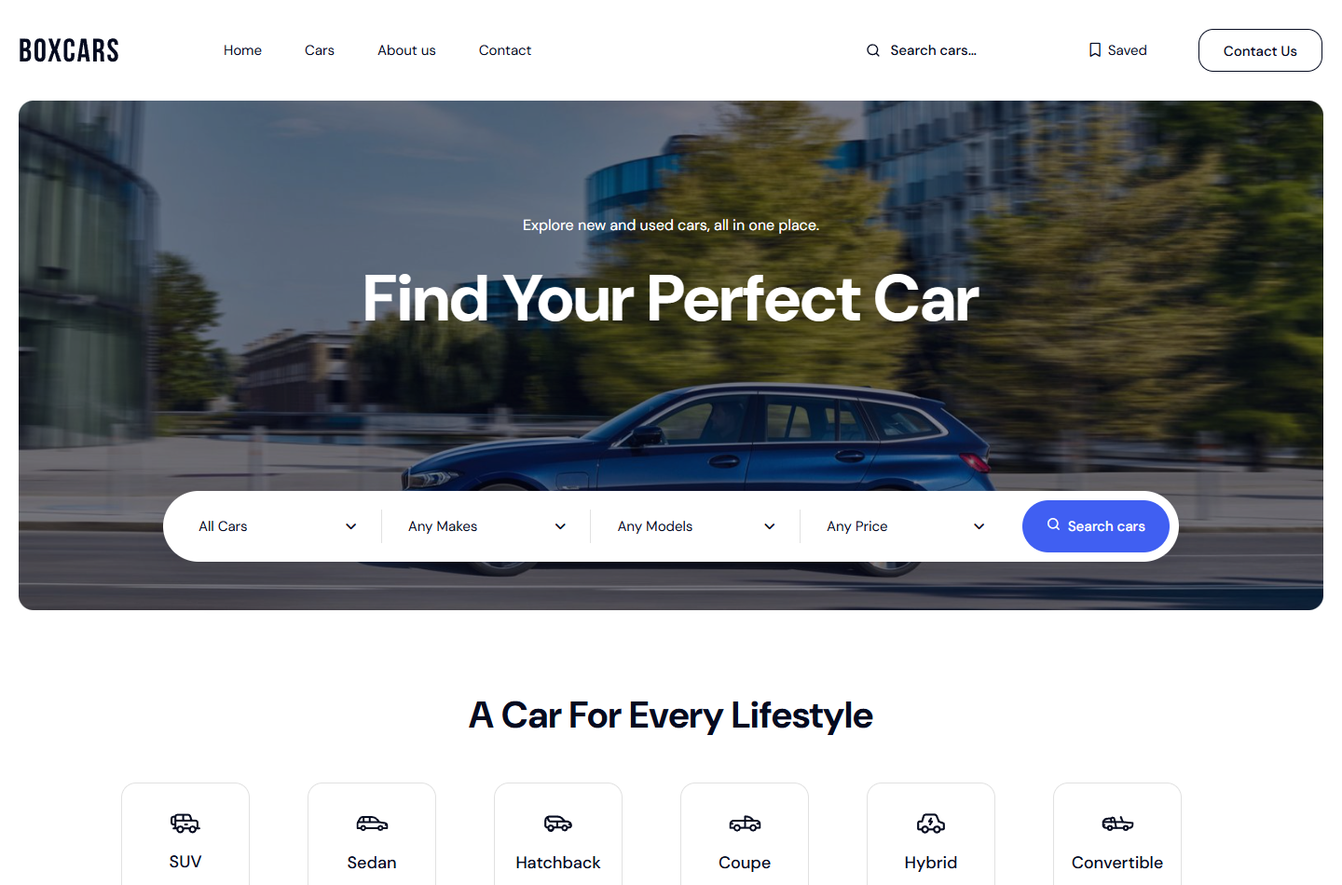
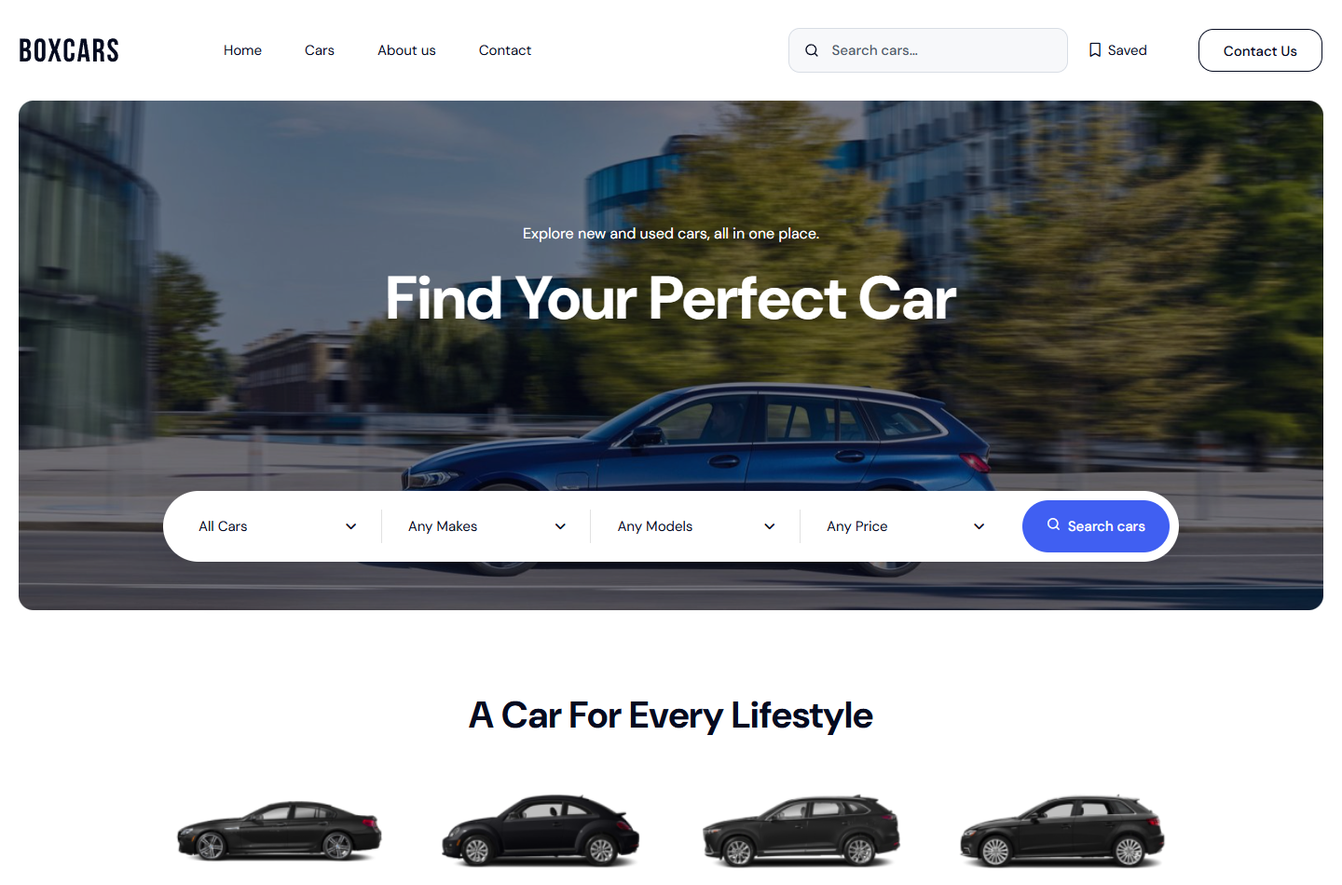
fix(boxcar): restore source styling and photographic categories

diff --git a/templates/boxcar-updated/src/reference/CuratedHome.svelte b/templates/boxcar-updated/src/reference/CuratedHome.svelte
@@ -163,136 +163,58 @@ import CuratedStock from './CuratedStock.svelte';
                         </div></div>
         </div>
     </section>
-<section class="boxcar-brand-section-six curated-types">
+<section class="vehicles-section-two curated-types">
         <div class="boxcar-container">
-            <div class="boxcar-title wow fadeInUp">
+            <div class="boxcar-title text-center">
                 <h2>A Car For Every Lifestyle</h2>
-                
             </div>
-            <div class="right-box">
+            <div class="row">
                 
-                <div class="cars-block-six home-8">
-                    <div class="inner-box wow fadeInUp">
+                <div class="Vehicle-block col-sm-6 col-lg-3 col-md-3">
+                    <a class="inner-box" href="/inventory/?body=Sedan" aria-label="Browse Sedan cars">
                         <div class="image-box">
-                            <svg width="32" height="32" viewBox="0 0 32 32" fill="none" xmlns="http://www.w3.org/2000/svg">
-                                <g clip-path="url(#clip0_130_4383-curated-3)">
-                                <path d="M30.9565 20.1739H29.913V14.9565C29.913 13.2304 28.5087 11.8261 26.7826 11.8261H23.3608L21.9874 7.70562C21.5605 6.42537 20.367 5.56519 19.0175 5.56519C18.855 5.56519 7.57394 5.56519 7.30431 5.56519C5.94394 5.56519 4.78412 6.43762 4.35337 7.65212H3.13044C1.40431 7.65212 0 9.05644 0 10.7826V14.9565C0 16.6826 1.40431 18.0869 3.13044 18.0869H4.17394V20.1739H3.13044C2.55419 20.1739 2.08694 20.6411 2.08694 21.2174C2.08694 21.7937 2.55413 22.2609 3.13044 22.2609C4.10769 22.2609 5.28038 22.2609 6.26088 22.2609C6.26088 24.5624 8.13331 26.4348 10.4348 26.4348C12.7363 26.4348 14.6088 24.5624 14.6088 22.2609H19.4783C19.4783 24.5624 21.3507 26.4348 23.6523 26.4348C25.9538 26.4348 27.8262 24.5624 27.8262 22.2609C28.807 22.2609 29.9801 22.2609 30.9566 22.2609C31.5329 22.2609 32.0001 21.7937 32.0001 21.2174C32.0001 20.6411 31.5328 20.1739 30.9565 20.1739ZM4.17394 15.9999H3.13044C2.55506 15.9999 2.08694 15.5318 2.08694 14.9564V10.7825C2.08694 10.2071 2.55506 9.739 3.13044 9.739H4.17394C4.17394 10.4039 4.17394 15.3552 4.17394 15.9999ZM14.6087 7.65212H16.3478H19.0175C19.4674 7.65212 19.8652 7.93887 20.0074 8.36556L21.1609 11.826H14.6087V7.65212ZM6.26088 8.69556C6.26088 8.12019 6.729 7.65206 7.30438 7.65206H12.5218V11.826H6.26088V8.69556ZM10.4348 24.3477C9.28406 24.3477 8.34787 23.4116 8.34787 22.2608C8.34787 21.1101 9.28406 20.1739 10.4348 20.1739C11.5856 20.1739 12.5218 21.1101 12.5218 22.2608C12.5218 23.4116 11.5856 24.3477 10.4348 24.3477ZM23.6522 24.3477C22.5014 24.3477 21.5653 23.4116 21.5653 22.2608C21.5653 21.1101 22.5014 20.1739 23.6522 20.1739C24.8029 20.1739 25.7391 21.1101 25.7391 22.2608C25.7391 23.4116 24.8029 24.3477 23.6522 24.3477ZM27.8261 20.1739H27.2646C26.5417 18.9276 25.1937 18.0869 23.6522 18.0869C22.1107 18.0869 20.7627 18.9276 20.0398 20.1739H14.0472C13.3243 18.9276 11.9763 18.0869 10.4348 18.0869C8.89331 18.0869 7.54531 18.9276 6.82244 20.1739H6.26094V17.0434V13.913C7.96256 13.913 25.6653 13.913 26.7827 13.913C27.3581 13.913 27.8262 14.3811 27.8262 14.9565V20.1739H27.8261Z" fill="#050B20"></path>
-                                <path d="M17.7388 16H15.6519C15.0756 16 14.6084 16.4672 14.6084 17.0435C14.6084 17.6198 15.0756 18.087 15.6519 18.087H17.7388C18.3151 18.087 18.7823 17.6198 18.7823 17.0435C18.7823 16.4672 18.3151 16 17.7388 16Z" fill="#050B20"></path>
-                                </g>
-                                <defs>
-                                <clipPath id="clip0_130_4383-curated-3">
-                                <rect width="32" height="32" fill="white"></rect>
-                                </clipPath>
-                                </defs>
-                            </svg>
-                                
+                            <figure class="image"><img src="/media/resource/vehicles2-1.png" alt="" width="200" height="150"></figure>
                         </div>
                         <div class="content-box">
-                            <h6 class="title"><a href="/inventory/?body=SUV" aria-label="Browse SUV cars">SUV</a></h6>
+                            <h6 class="title">Sedan</h6>
                         </div>
-                    </div>
+                    </a>
                 </div>
                 
-                <div class="cars-block-six home-8">
-                    <div class="inner-box wow fadeInUp" data-wow-delay="100ms">
+                <div class="Vehicle-block col-sm-6 col-lg-3 col-md-3">
+                    <a class="inner-box" href="/inventory/?body=Coupe" aria-label="Browse Coupe cars">
                         <div class="image-box">
-                            <svg width="35" height="34" viewBox="0 0 35 34" fill="none" xmlns="http://www.w3.org/2000/svg">
-                                <g clip-path="url(#clip0_130_4394-curated-4)">
-                                <path d="M31.259 15.5873L25.3898 14.6086C25.0466 14.0512 24.3644 13.0429 23.3725 12.0327C21.3927 10.0164 19.1133 8.95068 16.7806 8.95068H7.2225C5.66993 8.95068 4.23044 9.79012 3.46577 11.1414L0.831898 15.7962C0.827648 15.8037 0.824461 15.8115 0.82041 15.8191C0.616676 16.1837 0.5 16.6033 0.5 17.0499V21.9548C0.5 22.5049 0.945984 22.9508 1.49609 22.9508H4.68632C5.15455 24.176 6.348 25.0494 7.74339 25.0494C9.13879 25.0494 10.3322 24.176 10.8005 22.9508H23.172C23.6402 24.176 24.8336 25.0494 26.229 25.0494C27.6244 25.0494 28.8178 24.176 29.286 22.9508H33.5039C34.054 22.9508 34.5 22.5049 34.5 21.9548V19.3178C34.5 17.4492 33.1077 15.8482 31.259 15.5873ZM22.8976 14.5182H15.722V10.9429H16.7806C19.604 10.9429 21.7363 13.0302 22.8976 14.5182ZM9.07371 10.9429H13.7299V14.5182H9.07371V10.9429ZM5.19964 12.1225C5.58811 11.436 6.30012 10.9953 7.08152 10.9477V14.5182H3.84402L5.19964 12.1225ZM7.74339 23.0572C7.03929 23.0572 6.46647 22.494 6.46647 21.8016C6.46647 21.1093 7.03929 20.546 7.74339 20.546C8.4475 20.546 9.02032 21.1093 9.02032 21.8016C9.02032 22.494 8.4475 23.0572 7.74339 23.0572ZM26.229 23.0572C25.5248 23.0572 24.952 22.494 24.952 21.8016C24.952 21.1093 25.5249 20.546 26.229 20.546C26.9331 20.546 27.5059 21.1093 27.5059 21.8016C27.5059 22.494 26.9331 23.0572 26.229 23.0572ZM29.3857 20.9586C29.0111 19.5753 27.7381 18.5538 26.229 18.5538C24.7198 18.5538 23.4469 19.5753 23.0721 20.9586H10.9001C10.5255 19.5753 9.25254 18.5538 7.74339 18.5538C6.23425 18.5538 4.9613 19.5753 4.58657 20.9586H2.49219V17.0499C2.49219 16.7524 2.73417 16.5104 3.03167 16.5104H24.683L30.9445 17.5546C30.9541 17.5562 30.9637 17.5577 30.9734 17.559C31.1428 17.5822 31.304 17.6295 31.4541 17.6967C31.0374 17.8159 30.732 18.1988 30.732 18.6538C30.732 19.2039 31.178 19.6499 31.7281 19.6499H32.5078V20.9587H29.3857V20.9586Z" fill="#050B20"></path>
-                                </g>
-                                <defs>
-                                <clipPath id="clip0_130_4394-curated-4">
-                                <rect width="34" height="34" fill="white" transform="translate(0.5)"></rect>
-                                </clipPath>
-                                </defs>
-                                </svg>
-                                
+                            <figure class="image"><img src="/media/resource/vehicles2-2.png" alt="" width="200" height="150"></figure>
                         </div>
                         <div class="content-box">
-                            <h6 class="title"><a href="/inventory/?body=Sedan" aria-label="Browse Sedan cars">Sedan</a></h6>
+                            <h6 class="title">Coupe</h6>
                         </div>
-                    </div>
+                    </a>
                 </div>
                 
-                <div class="cars-block-six home-8">
-                    <div class="inner-box wow fadeInUp" data-wow-delay="200ms">
+                <div class="Vehicle-block col-sm-6 col-lg-3 col-md-3">
+                    <a class="inner-box" href="/inventory/?body=SUV" aria-label="Browse SUV cars">
                         <div class="image-box">
-                            <svg width="34" height="34" viewBox="0 0 34 34" fill="none" xmlns="http://www.w3.org/2000/svg">
-                                <path d="M26.5625 13.8124H25.3194C25.1795 13.8133 25.0409 13.7865 24.9115 13.7336C24.782 13.6807 24.6643 13.6028 24.565 13.5043L21.7387 10.6781C21.0418 9.9811 20.2132 9.42962 19.3012 9.0557C18.3891 8.68177 17.4119 8.49286 16.4263 8.49995H7.4375C6.02854 8.49995 4.67728 9.05966 3.681 10.0559C2.68471 11.0522 2.125 12.4035 2.125 13.8124V19.1249C2.125 19.9703 2.46083 20.7811 3.0586 21.3789C3.65637 21.9766 4.46712 22.3124 5.3125 22.3124C5.3125 23.2987 5.7043 24.2446 6.4017 24.942C7.0991 25.6394 8.04498 26.0312 9.03125 26.0312C10.0175 26.0312 10.9634 25.6394 11.6608 24.942C12.3582 24.2446 12.75 23.2987 12.75 22.3124H20.2938C20.4112 23.2014 20.8478 24.0174 21.5221 24.6085C22.1965 25.1996 23.0626 25.5255 23.9594 25.5255C24.8561 25.5255 25.7223 25.1996 26.3966 24.6085C27.071 24.0174 27.5075 23.2014 27.625 22.3124H28.6875C29.5329 22.3124 30.3436 21.9766 30.9414 21.3789C31.5392 20.7811 31.875 19.9703 31.875 19.1249C31.875 17.716 31.3153 16.3647 30.319 15.3684C29.3227 14.3722 27.9715 13.8124 26.5625 13.8124ZM16.4794 10.6249C17.1775 10.6237 17.869 10.7601 18.5144 11.0262C19.1598 11.2924 19.7464 11.6832 20.2406 12.1762L21.8769 13.8124H8.755C8.55699 13.8138 8.36253 13.7598 8.19357 13.6566C8.0246 13.5533 7.88785 13.4049 7.79875 13.2281L6.56625 10.7631C6.84804 10.6734 7.14178 10.6268 7.4375 10.6249H16.4794ZM4.25 19.1249V13.8124C4.25058 13.1672 4.44694 12.5374 4.81313 12.0062L5.87563 14.1312C6.13626 14.6733 6.54495 15.1305 7.05446 15.4501C7.56398 15.7698 8.15353 15.9387 8.755 15.9374H14.875V20.1874H12.3781C12.0797 19.5519 11.6064 19.0144 11.0137 18.638C10.421 18.2615 9.7334 18.0616 9.03125 18.0616C8.3291 18.0616 7.64146 18.2615 7.04876 18.638C6.45607 19.0144 5.98282 19.5519 5.68437 20.1874H5.3125C5.03071 20.1874 4.76046 20.0755 4.5612 19.8763C4.36194 19.677 4.25 19.4067 4.25 19.1249ZM9.03125 23.3749C8.71604 23.3749 8.4079 23.2815 8.14581 23.1064C7.88372 22.9312 7.67944 22.6823 7.55882 22.3911C7.43819 22.0999 7.40663 21.7794 7.46812 21.4703C7.52962 21.1611 7.68141 20.8771 7.9043 20.6542C8.12719 20.4314 8.41117 20.2796 8.72032 20.2181C9.02948 20.1566 9.34993 20.1881 9.64115 20.3088C9.93237 20.4294 10.1813 20.6337 10.3564 20.8958C10.5315 21.1578 10.625 21.466 10.625 21.7812C10.625 22.2039 10.4571 22.6093 10.1582 22.9081C9.85932 23.207 9.45394 23.3749 9.03125 23.3749ZM23.9062 23.3749C23.591 23.3749 23.2829 23.2815 23.0208 23.1064C22.7587 22.9312 22.5544 22.6823 22.4338 22.3911C22.3132 22.0999 22.2816 21.7794 22.3431 21.4703C22.4046 21.1611 22.5564 20.8771 22.7793 20.6542C23.0022 20.4314 23.2862 20.2796 23.5953 20.2181C23.9045 20.1566 24.2249 20.1881 24.5162 20.3088C24.8074 20.4294 25.0563 20.6337 25.2314 20.8958C25.4065 21.1578 25.5 21.466 25.5 21.7812C25.5 22.2039 25.3321 22.6093 25.0332 22.9081C24.7343 23.207 24.3289 23.3749 23.9062 23.3749ZM28.6875 20.1874H27.2531C26.9547 19.5519 26.4814 19.0144 25.8887 18.638C25.296 18.2615 24.6084 18.0616 23.9062 18.0616C23.2041 18.0616 22.5165 18.2615 21.9238 18.638C21.3311 19.0144 20.8578 19.5519 20.5594 20.1874H17V15.9374H26.5625C27.0081 15.9398 27.4482 16.0356 27.8545 16.2186C28.2608 16.4017 28.6242 16.6678 28.9212 16.9999H28.6875C28.4057 16.9999 28.1355 17.1119 27.9362 17.3111C27.7369 17.5104 27.625 17.7807 27.625 18.0624C27.625 18.3442 27.7369 18.6145 27.9362 18.8138C28.1355 19.013 28.4057 19.1249 28.6875 19.1249H29.75C29.75 19.4067 29.6381 19.677 29.4388 19.8763C29.2395 20.0755 28.9693 20.1874 28.6875 20.1874Z" fill="#050B20"></path>
-                            </svg>
-                                
+                            <figure class="image"><img src="/media/resource/vehicles2-3.png" alt="" width="200" height="150"></figure>
                         </div>
                         <div class="content-box">
-                            <h6 class="title"><a href="/inventory/?body=Hatchback" aria-label="Browse Hatchback cars">Hatchback</a></h6>
+                            <h6 class="title">SUV</h6>
                         </div>
-                    </div>
-                </div>
-                
-                <div class="cars-block-six home-8">
-                    <div class="inner-box wow fadeInUp" data-wow-delay="300ms">
-                        <div class="image-box">
-                            <svg width="35" height="34" viewBox="0 0 35 34" fill="none" xmlns="http://www.w3.org/2000/svg">
-                                <g clip-path="url(#clip0_130_4407-curated-6)">
-                                <path d="M29.6539 12.9591H26.9432C26.0374 11.6291 24.8322 10.5173 23.4281 9.72437C21.8558 8.83644 20.0704 8.36719 18.265 8.36719H17.5C16.9451 8.36719 16.4953 8.81699 16.4953 9.37184V12.9591H5.3461C2.89815 12.9591 0.869644 14.784 0.546173 17.1445C0.542542 17.1673 0.539429 17.1901 0.537354 17.2135C0.513748 17.4078 0.5 17.6049 0.5 17.8054V21.6469C0.5 22.2017 0.949799 22.6515 1.50465 22.6515H5.01978C5.46672 24.3781 7.0379 25.6567 8.90221 25.6567C10.7665 25.6567 12.3377 24.3781 12.7846 22.6515H22.2154C22.6626 24.3781 24.2335 25.6567 26.0978 25.6567C27.9621 25.6567 29.533 24.3781 29.9802 22.6515H33.4953C34.0502 22.6515 34.5 22.2017 34.5 21.6469V17.8054C34.5 15.1331 32.326 12.9591 29.6539 12.9591ZM18.5047 10.3801C20.7251 10.4437 22.8312 11.3907 24.3588 12.9591H18.5047V10.3801ZM2.50931 18.304H4.06104C4.61589 18.304 5.06569 17.8542 5.06569 17.2993C5.06569 16.7445 4.61589 16.2947 4.06104 16.2947H2.94691C3.44989 15.4986 4.33704 14.9686 5.3461 14.9686H16.4953V20.6422H12.7846C12.3374 18.9157 10.7665 17.6368 8.90221 17.6368C7.0379 17.6368 5.46698 18.9157 5.01978 20.6422H2.50931V18.304ZM10.9027 21.6469C10.9027 22.7501 10.0054 23.6474 8.90221 23.6474C7.79898 23.6474 6.90172 22.7501 6.90172 21.6469C6.90172 20.5437 7.79898 19.6464 8.90221 19.6464C10.0054 19.6464 10.9027 20.5437 10.9027 21.6469ZM28.0983 21.6469C28.0983 22.7501 27.201 23.6474 26.0978 23.6474C24.9946 23.6474 24.0973 22.7501 24.0973 21.6469C24.0973 20.5437 24.9946 19.6464 26.0978 19.6464C27.201 19.6464 28.0983 20.5437 28.0983 21.6469ZM29.9802 20.6422C29.5333 18.9157 27.9621 17.6368 26.0978 17.6368C24.2335 17.6368 22.6623 18.9157 22.2154 20.6422H18.5047V14.9686H29.6539C30.6451 14.9686 31.519 15.4802 32.0264 16.2527H30.4715C29.9167 16.2527 29.4669 16.7025 29.4669 17.2573C29.4669 17.8122 29.9167 18.2622 30.4715 18.2622H32.4907V20.6422H29.9802Z" fill="#050B20"></path>
-                                </g>
-                                <defs>
-                                <clipPath id="clip0_130_4407-curated-6">
-                                <rect width="34" height="34" fill="white" transform="translate(0.5)"></rect>
-                                </clipPath>
-                                </defs>
-                                </svg>
-                                
-                        </div>
-                        <div class="content-box">
-                            <h6 class="title"><a href="/inventory/?body=Coupe" aria-label="Browse Coupe cars">Coupe</a></h6>
-                        </div>
-                    </div>
-                </div>
-                
-                <div class="cars-block-six home-8">
-                    <div class="inner-box wow fadeInUp" data-wow-delay="400ms">
-                        <div class="image-box">
-                            <svg width="34" height="34" viewBox="0 0 34 34" fill="none" xmlns="http://www.w3.org/2000/svg">
-                                <path d="M30.5394 15.7463L26.3033 14.0526L23.8414 8.30769C23.3378 7.13362 22.1882 6.375 20.9111 6.375H11.1658C9.75056 6.375 8.48938 7.32594 8.1005 8.687L6.63637 13.8125H4.25C3.07806 13.8125 2.125 14.7656 2.125 15.9375V22.3125C2.125 23.4844 3.07806 24.4375 4.25 24.4375H6.52588C7.00081 26.265 8.65088 27.625 10.625 27.625C12.5991 27.625 14.2492 26.265 14.7241 24.4375H19.2759C19.7508 26.265 21.4009 27.625 23.375 27.625C25.3491 27.625 26.9992 26.265 27.4741 24.4375H29.75C30.9219 24.4375 31.875 23.4844 31.875 22.3125V17.7193C31.875 16.8449 31.3512 16.0703 30.5394 15.7463ZM10.625 25.5C9.45306 25.5 8.5 24.5469 8.5 23.375C8.5 22.2031 9.45306 21.25 10.625 21.25C11.7969 21.25 12.75 22.2031 12.75 23.375C12.75 24.5469 11.7969 25.5 10.625 25.5ZM23.375 25.5C22.2031 25.5 21.25 24.5469 21.25 23.375C21.25 22.2031 22.2031 21.25 23.375 21.25C24.5469 21.25 25.5 22.2031 25.5 23.375C25.5 24.5469 24.5469 25.5 23.375 25.5ZM29.75 22.3125H27.4741C26.9992 20.485 25.3491 19.125 23.375 19.125C21.4009 19.125 19.7508 20.485 19.2759 22.3125H14.7241C14.2492 20.485 12.5991 19.125 10.625 19.125C8.65088 19.125 7.00081 20.485 6.52588 22.3125H4.25V15.9375H7.4375C7.91138 15.9375 8.32894 15.623 8.45856 15.1672L10.1426 9.27137C10.2733 8.81662 10.693 8.5 11.1658 8.5H20.9111C21.3361 8.5 21.7196 8.75287 21.8875 9.14387L24.5225 15.2936C24.633 15.5529 24.8423 15.7569 25.1037 15.8621L29.75 17.7193V22.3125Z" fill="#050B20"></path>
-                                <path d="M15.3481 18.9465C14.8604 18.6214 14.7287 17.9616 15.0538 17.4728L16.077 15.9375H14.8753C14.4833 15.9375 14.1231 15.7218 13.9382 15.3765C13.7533 15.0312 13.7735 14.6115 13.9913 14.2864L16.1163 11.0989C16.4414 10.6102 17.1013 10.4784 17.59 10.8046C18.0777 11.1297 18.2094 11.7895 17.8843 12.2783L16.8611 13.8125H18.0628C18.4549 13.8125 18.8151 14.0282 18.9999 14.3735C19.1848 14.7188 19.1646 15.1385 18.9468 15.4637L16.8218 18.6512C16.4956 19.141 15.8348 19.2717 15.3481 18.9465Z" fill="#050B20"></path>
-                                </svg>
-                                
-                        </div>
-                        <div class="content-box">
-                            <h6 class="title"><a href="/inventory/?fuel=Hybrid" aria-label="Browse Hybrid cars">Hybrid</a></h6>
-                        </div>
-                    </div>
-                </div>
-                
-                <div class="cars-block-six home-8">
-                    <div class="inner-box wow fadeInUp" data-wow-delay="500ms">
-                        <div class="image-box">
-                            <svg width="35" height="34" viewBox="0 0 35 34" fill="none" xmlns="http://www.w3.org/2000/svg">
-                                <mask id="mask0_130_4423-curated-8" style="mask-type:luminance" maskUnits="userSpaceOnUse" x="0" y="0" width="35" height="34">
-                                <path d="M0.5 3.8147e-06H34.5V34H0.5V3.8147e-06Z" fill="white"></path>
-                                </mask>
-                                <g mask="url(#mask0_130_4423-curated-8)">
-                                <path d="M6.875 21.7812H5.18031C3.3143 21.7812 1.77168 20.3934 1.52996 18.5938C1.50738 18.4311 1.49609 18.2657 1.49609 18.097V15.4062H10.6442H14.4453H22.8125L33.5039 16.4688V18.097C33.5039 20.1324 31.8517 21.7812 29.8197 21.7812H28.125" stroke="#050B20" stroke-width="2" stroke-miterlimit="10" stroke-linecap="round" stroke-linejoin="round"></path>
-                                <path d="M23.875 21.7812H15.7914H11.125" stroke="#050B20" stroke-width="2" stroke-miterlimit="10" stroke-linecap="round" stroke-linejoin="round"></path>
-                                <path d="M11.125 21.7813C11.125 22.9548 10.1736 23.9062 9 23.9062C7.8264 23.9062 6.875 22.9548 6.875 21.7813C6.875 20.6077 7.8264 19.6563 9 19.6563C10.1736 19.6563 11.125 20.6077 11.125 21.7813Z" stroke="#050B20" stroke-width="2" stroke-miterlimit="10" stroke-linecap="round" stroke-linejoin="round"></path>
-                                <path d="M28.125 21.7813C28.125 22.9548 27.1736 23.9062 26 23.9062C24.8264 23.9062 23.875 22.9548 23.875 21.7813C23.875 20.6077 24.8264 19.6563 26 19.6563C27.1736 19.6563 28.125 20.6077 28.125 21.7813Z" stroke="#050B20" stroke-width="2" stroke-miterlimit="10" stroke-linecap="round" stroke-linejoin="round"></path>
-                                <path d="M3.15656 18.5938H1.53027" stroke="#050B20" stroke-width="2" stroke-miterlimit="10" stroke-linecap="round" stroke-linejoin="round"></path>
-                                <path d="M10.644 15.4062L10.1034 12.8436C9.89025 11.8389 10.5311 10.8514 11.5358 10.6383C12.5405 10.4245 13.528 11.0659 13.7411 12.07C14.6289 16.2735 14.1724 14.1113 15.7911 21.7812" stroke="#050B20" stroke-width="2" stroke-miterlimit="10" stroke-linecap="round" stroke-linejoin="round"></path>
-                                <path d="M22.8125 15.4062L20.6875 10.0938" stroke="#050B20" stroke-width="2" stroke-miterlimit="10" stroke-linecap="round" stroke-linejoin="round"></path>
-                                <path d="M1.49609 15.4062C2.50593 13.1443 4.75153 11.6875 7.22875 11.6875H10.2292" stroke="#050B20" stroke-width="2" stroke-miterlimit="10" stroke-linecap="round" stroke-linejoin="round"></path>
-                                </g>
-                                </svg>
-                                
-                        </div>
-                        <div class="content-box">
-                            <h6 class="title"><a href="/inventory/?body=Convertible" aria-label="Browse Convertible cars">Convertible</a></h6>
-                        </div>
-                    </div>
+                    </a>
                 </div>
                 
                 
                 
-                
+                <div class="Vehicle-block col-sm-6 col-lg-3 col-md-3">
+                    <a class="inner-box" href="/inventory/?body=Hatchback" aria-label="Browse Hatchback cars">
+                        <div class="image-box">
+                            <figure class="image"><img src="/media/resource/vehicles2-5.png" alt="" width="200" height="150"></figure>
+                        </div>
+                        <div class="content-box">
+                            <h6 class="title">Hatchback</h6>
+                        </div>
+                    </a>
+                </div>
                 
                 
             </div>
@@ -390,7 +312,7 @@ import CuratedStock from './CuratedStock.svelte';
                     <div class="choose-us-block col-lg-3 col-md-6 col-sm-12">
                         <div class="inner-box wow fadeInUp">
                             <div class="icon-box"><svg xmlns="http://www.w3.org/2000/svg" width="51" height="60" viewBox="0 0 51 60" fill="none">
-                                <g clip-path="url(#clip0_24_628-curated-10)">
+                                <g clip-path="url(#clip0_24_628-curated-4)">
                                     <path d="M22.9688 52.9676C22.9688 52.732 22.827 52.5195 22.6096 52.4289C20.0682 51.3695 18.2812 48.8627 18.2812 45.9375V23.4375C18.2812 20.5123 20.0682 18.0054 22.6096 16.9461C22.827 16.8555 22.9688 16.6429 22.9688 16.4074V16.4062H18.2812C14.398 16.4062 11.25 19.5543 11.25 23.4375V45.9375C11.25 49.8207 14.398 52.9688 18.2812 52.9688H22.9688V52.9676Z" fill="#EEF1FB"></path>
                                     <path d="M23.3708 41.3167L36.6292 28.0583" stroke="#FF5CF4" stroke-width="3" stroke-miterlimit="10" stroke-linecap="round" stroke-linejoin="round"></path>
                                     <path d="M30 21.0938L44.0625 2.34375" stroke="#405FF2" stroke-width="3" stroke-miterlimit="10" stroke-linecap="round" stroke-linejoin="round"></path>
@@ -398,7 +320,7 @@ import CuratedStock from './CuratedStock.svelte';
                                     <path d="M48.75 30V23.4375C48.75 19.5543 45.602 16.4062 41.7188 16.4062H38.0747C36.4508 13.6159 33.4612 11.7188 30 11.7188C26.5388 11.7188 23.5493 13.6159 21.9253 16.4062H18.2812C14.398 16.4062 11.25 19.5543 11.25 23.4375V45.9375C11.25 49.8207 14.398 52.9688 18.2812 52.9688H21.9253C23.5492 55.7591 26.5388 57.6562 30 57.6562C33.4612 57.6562 36.4507 55.7591 38.0747 52.9688H41.7188C45.602 52.9688 48.75 49.8207 48.75 45.9375V39.375" stroke="#405FF2" stroke-width="3" stroke-miterlimit="10" stroke-linecap="round" stroke-linejoin="round"></path>
                                 </g>
                                 <defs>
-                                    <clipPath id="clip0_24_628-curated-10">
+                                    <clipPath id="clip0_24_628-curated-4">
                                     <rect width="51" height="60" fill="white"></rect>
                                     </clipPath>
                                 </defs>
@@ -434,7 +356,7 @@ import CuratedStock from './CuratedStock.svelte';
                     <div class="choose-us-block col-lg-3 col-md-6 col-sm-12">
                         <div class="inner-box wow fadeInUp" data-wow-delay="200ms">
                             <div class="icon-box"><svg xmlns="http://www.w3.org/2000/svg" width="60" height="60" viewBox="0 0 60 60" fill="none">
-                                <g clip-path="url(#clip0_24_681-curated-12)">
+                                <g clip-path="url(#clip0_24_681-curated-6)">
                                 <path d="M8.75576 36.7478L35.3054 10.198C37.136 8.36741 40.104 8.36741 41.9346 10.198L36.8955 5.15894C35.0649 3.32837 32.097 3.32837 30.2664 5.15894L3.71671 31.7087C1.88613 33.5393 1.88613 36.5073 3.71671 38.3378L8.75576 43.3768C6.92518 41.5462 6.92518 38.5783 8.75576 36.7478Z" fill="#EEF1FB"></path>
                                 <path d="M50.1537 18.4171C51.9843 20.2477 51.9843 23.2157 50.1537 25.0463L23.6039 51.5959C21.7734 53.4265 18.8054 53.4265 16.9748 51.5959L3.71671 38.3378C1.88613 36.5072 1.88613 33.5392 3.71671 31.7086L30.2664 5.15894C32.097 3.32836 35.0649 3.32836 36.8955 5.15894L43.5247 11.7881L52.9689 2.34387" stroke="#405FF2" stroke-width="3" stroke-miterlimit="10" stroke-linecap="round" stroke-linejoin="round"></path>
                                 <path d="M18.9633 31.0458C18.7631 32.4554 19.2051 33.9388 20.2894 35.0231C22.12 36.8537 25.088 36.8537 26.9186 35.0231C28.7492 33.1926 28.7492 30.2246 26.9186 28.394C25.088 26.5634 25.088 23.5954 26.9186 21.7648C28.7492 19.9342 31.7172 19.9342 33.5478 21.7648C34.6321 22.8491 35.0741 24.3325 34.8739 25.7421" stroke="#405FF2" stroke-width="3" stroke-miterlimit="10" stroke-linecap="round" stroke-linejoin="round"></path>
@@ -443,7 +365,7 @@ import CuratedStock from './CuratedStock.svelte';
                                 <path d="M43.5938 57.6562L57.6563 43.5937" stroke="#FF5CF4" stroke-width="3" stroke-miterlimit="10" stroke-linecap="round" stroke-linejoin="round"></path>
                                 </g>
                                 <defs>
-                                <clipPath id="clip0_24_681-curated-12">
+                                <clipPath id="clip0_24_681-curated-6">
                                 <rect width="60" height="60" fill="white"></rect>
                                 </clipPath>
                                 </defs>

diff --git a/templates/boxcar-updated/public/reference/curated.css b/templates/boxcar-updated/public/reference/curated.css
@@ -13,12 +13,18 @@
 .curated-home .boxcar-header .right-box { gap: 24px; }
 .curated-home .boxcar-header .box-account { display: inline-flex; align-items: center; gap: 8px; white-space: nowrap; }
 .curated-home .boxcar-header .layout-search { display: block; }
-.curated-home .boxcar-header .layout-search .show-search { width: 265px; }
+.curated-home .boxcar-header.v10 .layout-search { width: 300px; margin-right: 0; }
+.curated-home .boxcar-header.v10 .layout-search .search-box .show-search { width: 100%; height: 48px; line-height: 46px; padding: 0 18px 0 46px; color: #050b20; background: #f7f8fa; border: 1px solid #d8dde5; border-radius: 12px; }
+.curated-home .boxcar-header.v10 .layout-search .search-box .show-search::placeholder { color: #505b6d; opacity: 1; }
+.curated-home .boxcar-header.v10 .layout-search .search-box .icon { left: 17px; }
+.curated-home .boxcar-header.v10 .layout-search.active .search-box .show-search { width: 100%; color: #050b20; background: #fff; border-color: #050b20; border-radius: 12px 12px 0 0; }
+.curated-home .boxcar-header.v10 .layout-search .box-content-search { width: 380px; left: auto; right: 0; border: 1px solid #d8dde5; border-radius: 12px 0 12px 12px; box-shadow: 0 16px 40px #050b201a; }
 .curated-home .boxcar-header .header-btn-two { white-space: nowrap; }
 .curated-home .boxcar-banner-section-seven .banner-slide { position: relative; height: auto; min-height: 0; }
 .curated-home .boxcar-banner-section-seven .banner-slide > img { width: 100%; height: clamp(480px, 38vw, 650px); object-fit: cover; object-position: center; }
-.curated-home .boxcar-banner-section-seven .banner-slide .right-box { top: 36%; }
-.curated-home .boxcar-banner-section-seven .banner-slide .content-box h1 { font-size: clamp(44px, 4.5vw, 70px); line-height: 1.12; }
+.curated-home .boxcar-banner-section-seven .banner-slider-v7 .banner-slide .right-box { top: 36%; }
+.curated-home .boxcar-banner-section-seven .banner-slider-v7 .banner-slide .right-box .content-box { max-width: 100%; }
+.curated-home .boxcar-banner-section-seven .banner-slider-v7 .banner-slide .right-box .content-box h1 { font-size: clamp(44px, 4.5vw, 70px); line-height: 1.12; text-wrap: balance; }
 .curated-home .boxcar-banner-section-seven .form-tab-content { bottom: 52px; }
 .curated-home .boxcar-banner-section-seven .cus-container10 { max-width: 1130px; padding: 0 20px; margin: auto; }
 .curated-home .boxcar-banner-section-seven form { min-height: 76px; padding: 0 10px; border-radius: 50px; background: #fff; box-shadow: 0 16px 40px #050b201a; flex-wrap: nowrap; }
@@ -34,9 +40,15 @@
 .curated-home .boxcar-banner-section-seven .form-submit button { display: inline-flex; align-items: center; justify-content: center; gap: 8px; height: 56px; line-height: 24px; padding: 0 26px; border-radius: 50px; background: var(--theme-color1); color: #fff; border: 0; }
 .curated-home .boxcar-banner-section-seven .form-submit button i { top: 0; margin: 0; }
 .curated-home .boxcar-title { text-align: center; }
+.curated-home .boxcar-title h2 { text-wrap: balance; }
 .curated-home .curated-types { padding: 90px 0 64px; }
-.curated-home .curated-types .right-box { justify-content: center; gap: 20px; flex-wrap: wrap; overflow: visible; }
-.curated-home .curated-types .cars-block-six { width: auto; flex: 1; max-width: 180px; margin: 0; }
+.curated-home .curated-types .boxcar-title { margin-bottom: 12px; }
+.curated-home .curated-types .row { max-width: 1120px; margin: 0 auto; justify-content: center; }
+.curated-home .curated-types .Vehicle-block .inner-box { display: block; border-radius: 16px; padding: 0 12px 18px; transition: background-color .2s; }
+.curated-home .curated-types .Vehicle-block .inner-box:hover { background: #f7f8fa; }
+.curated-home .curated-types .Vehicle-block .image { max-width: 230px; margin: 0 auto; }
+.curated-home .curated-types .Vehicle-block .image img { width: 100%; height: auto; }
+.curated-home .curated-types .Vehicle-block .content-box { top: -8px; }
 .curated-home .curated-brands { padding: 0 0 80px; }
 .curated-home .curated-brands .right-box { display: flex; justify-content: center; flex-wrap: wrap; gap: 36px; }
 .curated-home .curated-brands .cars-block-five { width: 150px; margin: 0; }
@@ -66,7 +78,7 @@
 .curated-home .curated-stock-more .read-more { display: inline-flex; align-items: center; justify-content: center; gap: 12px; padding: 13px 26px; border: 1px solid #050b20; border-radius: 12px; color: #050b20; font-size: 15px; }
 .curated-home .curated-stock-more .read-more:hover { background: #050b20; color: white; }
 .curated-home .curated-benefits { padding: 0 0 80px; }
-.curated-home .curated-benefits .right-box { padding: 0 48px; background: transparent; }
+.curated-home .curated-benefits .right-box { padding: 72px 48px 40px; background: #f9fbfc; border-radius: 16px; }
 .curated-home .curated-benefits .choose-us-block .inner-box { text-align: center; }
 .curated-home .curated-benefits .choose-us-block .icon-box { margin: 0 auto 24px; }
 .curated-home .curated-next-steps { padding: 0 0 90px; }
@@ -95,11 +107,9 @@
   .curated-home .boxcar-header .nav-out-bar { display: none !important; }
   .curated-home .boxcar-header .mobile-navigation { display: block; }
   .curated-home .curated-stock .right-box { padding: 56px 24px; }
-  .curated-home .curated-benefits .right-box { padding: 0 15px; }
+  .curated-home .curated-benefits .right-box { padding: 56px 24px 24px; }
   .curated-home .curated-next-steps .right-box { padding: 56px 24px; }
   .curated-home .curated-next-steps .testimonial-block-four { margin-bottom: 24px; }
-  .curated-home .curated-types .right-box { gap: 14px; }
-  .curated-home .curated-types .cars-block-six { flex: 0 0 calc(33.333% - 10px); max-width: none; }
   .curated-home .boxcar-banner-section-seven .form-tab-content { bottom: 32px; }
   .curated-home .boxcar-banner-section-seven form .drop-menu .select { padding: 0 14px; font-size: 14px; }
   .curated-home .boxcar-banner-section-seven .form-submit button { padding: 0 20px; }
@@ -111,11 +121,11 @@
   .curated-home .boxcar-header .box-account { font-size: 14px; }
   .curated-home .boxcar-banner-section-seven .banner-slide > img { height: 390px; object-position: 52% center; }
   .curated-home .boxcar-banner-section-seven .banner-slide { min-height: 0; height: auto; }
-  .curated-home .boxcar-banner-section-seven .banner-slide .right-box { top: 35%; padding: 0 12px; }
+  .curated-home .boxcar-banner-section-seven .banner-slider-v7 .banner-slide .right-box { top: 35%; padding: 0 12px; }
   .curated-home .boxcar-banner-section-seven .banner-slide .right-box .boxcar-container { padding: 0; }
-  .curated-home .boxcar-banner-section-seven .banner-slide .content-box { max-width: 440px; margin: auto; }
-  .curated-home .boxcar-banner-section-seven .banner-slide .content-box .sub-title { font-size: 14px; line-height: 22px; margin-bottom: 16px; max-width: 270px; }
-  .curated-home .boxcar-banner-section-seven .banner-slide .content-box h1 { font-size: clamp(30px, 7.6vw, 42px); padding: 0 10px; }
+  .curated-home .boxcar-banner-section-seven .banner-slider-v7 .banner-slide .right-box .content-box { max-width: 440px; margin: auto; }
+  .curated-home .boxcar-banner-section-seven .banner-slider-v7 .banner-slide .right-box .content-box .sub-title { font-size: 14px; line-height: 22px; margin-bottom: 16px; max-width: 270px; }
+  .curated-home .boxcar-banner-section-seven .banner-slider-v7 .banner-slide .right-box .content-box h1 { font-size: clamp(30px, 7.6vw, 42px); padding: 0 10px; }
   .curated-home .boxcar-banner-section-seven .form-tab-content { position: relative; bottom: auto; margin-top: -26px; z-index: 100; }
   .curated-home .boxcar-banner-section-seven .cus-container10 { padding: 0 14px; max-width: 580px; }
   .curated-home .boxcar-banner-section-seven form { display: grid; grid-template-columns: minmax(0, 1fr) minmax(0, 1fr); gap: 0; height: auto; padding: 8px; border-radius: 16px; margin: 0; }
@@ -128,9 +138,11 @@
   .curated-home .boxcar-banner-section-seven .form_boxes:nth-child(even) .dropdown { right: 0; left: auto; }
   .curated-home .boxcar-title h2 { font-size: 28px; line-height: 36px; }
   .curated-home .curated-types { padding: 56px 0 48px; }
-  .curated-home .curated-types .boxcar-title { margin-bottom: 26px; }
-  .curated-home .curated-types .right-box { gap: 12px; }
-  .curated-home .curated-types .cars-block-six { flex: 0 0 calc(50% - 6px); }
+  .curated-home .curated-types .boxcar-title { margin-bottom: 12px; }
+  .curated-home .curated-types .row { margin: 0 -6px; }
+  .curated-home .curated-types .Vehicle-block { width: 50%; padding: 0 6px; margin-bottom: 8px; }
+  .curated-home .curated-types .Vehicle-block .inner-box { padding: 0 0 14px; }
+  .curated-home .curated-types .Vehicle-block .content-box .title { font-size: 16px; }
   .curated-home .curated-brands { padding-bottom: 48px; }
   .curated-home .curated-brands .right-box { gap: 28px 18px; }
   .curated-home .curated-brands .cars-block-five { width: calc(33.333% - 12px); }
@@ -144,6 +156,7 @@
   .curated-home .curated-stock .car-block-ten .image-box span { top: 12px; left: 12px; }
   .curated-home .curated-stock .car-block-ten .icon-box { top: 12px; right: 12px; width: 44px; height: 44px; }
   .curated-home .curated-benefits { padding-bottom: 40px; }
+  .curated-home .curated-benefits .right-box { padding: 40px 24px 16px; }
   .curated-home .curated-benefits .choose-us-block { margin-bottom: 24px; }
   .curated-home .curated-benefits .choose-us-block .inner-box .text { max-width: 340px; margin: auto; }
   .curated-home .curated-next-steps { padding-bottom: 56px; }

diff --git a/templates/boxcar-updated/src/reference/CuratedCarCard.svelte b/templates/boxcar-updated/src/reference/CuratedCarCard.svelte
@@ -29,7 +29,11 @@
         aria-pressed={saved}
         onmousedowncapture={(event) => event.stopPropagation()}
         ontouchstartcapture={(event) => event.stopPropagation()}
-        onclick={() => toggleFavorite(vehicle.id)}
+        onclickcapture={(event) => {
+          // Handle the real button before Slick's list click handler can consume it.
+          event.stopPropagation();
+          toggleFavorite(vehicle.id);
+        }}
       >
         <svg
           width="12"

diff --git a/docs/boxcar-updated/QA.md b/docs/boxcar-updated/QA.md
@@ -4,30 +4,31 @@ Candidate: `L:/CODEX/cars/templates/boxcar-updated` on Cars `main`, Node 22.23.2
 
 ## Current curated homepage
 
-The selected composition uses **Home 10's rounded photo hero and header, Home 5's white pill search and four-icon benefits, and Home 8's centered type/brand rows, boxed vehicle shelf, dark rounded cards, journal and footer**. It follows a centered section flow. The dark cards describe three buying steps rather than showing copied customer testimonials. Dealer navigation is Home / Cars / About / Contact; supporting navigation also exposes buying advice, saved cars and comparison.
+The selected composition uses **Home 10's rounded photo hero, header and photographic body choices, Home 5's white pill search and four-icon benefits, and Home 8's centered brands, boxed vehicle shelf, dark rounded cards, journal and footer**. It follows a centered section flow. The dark cards describe three buying steps rather than showing copied customer testimonials. Dealer navigation is Home / Cars / About / Contact; supporting navigation also exposes buying advice, saved cars and comparison.
 
 The composition selects the preserved original DOM, SVGs, photographs and layout CSS, then binds dealer identity, articles and the 17 sample vehicles through shared data. There are no inflated stock totals or borrowed reviews on the curated page. Supporting inventory/detail pages remain the adapted Svelte layouts. This is a new combination of source sections; the original-home pixel comparison is not a pixel-parity claim for the combined page.
 
 | Check                        | Result                                                     |
 | ---------------------------- | ---------------------------------------------------------- |
 | Svelte / TypeScript          | 0 errors, 0 warnings                                       |
-| Domain / asset suite         | 8 / 8 pass, run earlier in this task                       |
+| Domain / asset suite         | 8 / 8 pass, rerun for the styling correction                |
 | Production build             | Pass; curated home and ten reference homes load separately |
 | Composition regeneration     | Identical curated source and provenance bytes              |
 | Preserved original sources   | Ten Svelte hashes still match the original port receipt    |
-| Curated browser journeys     | Eight pass in Chrome and eight in Playwright WebKit        |
+| Curated browser journeys     | Nine pass in Chrome and nine in Playwright WebKit          |
 | Responsive layouts           | 1440, 1024, 768, 390 and 320 px in both engines            |
-| Original reference journeys  | Eight pass per engine, including all ten header searches   |
+| Original reference journeys  | Earlier eight per engine retained; not rerun for this correction |
 | Browser / local asset errors | None in either curated run                                 |
 
-The curated checks cover lazy images, visible desktop navigation, centered headings, readable footer copy and article badges, and document width. Every catalogue make/model combination is selected at 390 and 320 px to check label and arrow bounds. Source-style carousel arrows are centered, at least 44 px high and separate from View all cars. The stock shelf is finite; it does not clone Svelte save buttons. Its clipped viewport prevents WebKit's native focus scrolling from moving the slider track.
+The curated checks cover lazy images, visible desktop navigation, centered headings, readable footer copy and article badges, and document width. Every catalogue make/model combination is selected at 390 and 320 px to check label and arrow bounds. Source-style carousel arrows are centered, at least 44 px high and separate from View all cars. The stock shelf is finite; it does not clone Svelte save buttons. Its clipped viewport prevents WebKit's native focus scrolling from moving the slider track. Save buttons handle clicks before Slick's delegated list handler can consume them, including after switching stock tabs.
 
-Search checks cover condition, make/model reset, restoring Any choices, price and the resulting inventory URLs/data. Keyboard checks cover dropdown selection, Escape and dismissal. Stock checks cover condition tabs, slide movement, bookmark clicks, Space activation, browser storage, the correct detail destination and Back/scroll restoration. The stock test waits for the selected panel's visible fade and layout to complete before clicking its save control. Header suggestions use six real sample cars at 1440 px and retain neutral pointer focus. Ordinary mobile menus, buyer-step links and inventory/about/contact/article routes are checked at desktop and 320 px.
+Search checks cover condition, make/model reset, restoring Any choices, price and the resulting inventory URLs/data. Keyboard checks cover dropdown selection, Escape and dismissal. Stock checks cover condition tabs, slide movement, bookmark clicks, Space activation, browser storage, the correct detail destination and Back/scroll restoration. The stock test waits for the selected panel's visible fade and layout to complete before clicking its save control. Header suggestions use six real sample cars at 1440 px and retain neutral pointer focus. Both idle and typed header text have at least 4.5:1 computed contrast against the field, and focusing it preserves its width. Each photographic body choice opens its matching inventory at desktop and 320 px; the SUV check covers both result pages. Ordinary mobile menus, buyer-step links and inventory/about/contact/article routes are checked at desktop and 320 px.
 
-The final visual review inspected desktop and phone output, including selected Mercedes-Benz, the stock controls, dark buying cards, journal badges and footer. The long-label line height, carousel/link overlap and WebKit focus shift found during this review were corrected. The retained screenshots and machine-readable receipt are current:
+The first composition was visually rejected by the owner despite its functional checks. The correction replaces the tiny Home 8 category SVGs with Home 10's original car photographs, gives the previously bare header field a visible neutral surface and dark text, and restores Home 5's pale rounded benefits container. The original banner's longer selectors had been overriding the curated mobile size and content width; the scoped selectors now apply and centered headings use balanced wrapping. A Bentley photograph incorrectly labelled Mercedes-Benz GLC is corrected to Bentley Bentayga — Silver while retaining its existing URL. The retained screenshots and machine-readable receipt describe this corrected local candidate; owner visual acceptance remains open:
 
 - [Curated desktop homepage](curated-desktop.png)
 - [Curated mobile homepage](curated-mobile.png)
+- [Readable header query and suggestions](curated-header-search.png)
 - [Curated checks and source hashes](curated-results.json)
 - [Composition and personalization boundaries](../../templates/boxcar-updated/TEMPLATE.md)
 

diff --git a/templates/boxcar-updated/TEMPLATE.md b/templates/boxcar-updated/TEMPLATE.md
@@ -2,9 +2,11 @@
 
 `boxcar-updated` · `2026.10.02-curated` · native Svelte 5 / Vite 8 · local preview port **6455**.
 
-The default `/` homepage is the curated dealer composition: **Home 10's rounded touring hero and header, Home 5's white pill search and four-icon benefits, and Home 8's type/brand rows, boxed vehicle shelf, dark rounded cards, journal and footer**. Sections follow a centered full-width flow. The dark cards describe the buying journey instead of presenting fictional customer reviews. Dealer navigation is Home / Cars / About / Contact; supporting pages also expose buying advice, saved cars and comparison.
+The default `/` homepage is the curated dealer composition: **Home 10's rounded touring hero, header and photographic body types, Home 5's white pill search and four-icon benefits, and Home 8's brand row, boxed vehicle shelf, dark rounded cards, journal and footer**. Sections follow a centered full-width flow. The dark cards describe the buying journey instead of presenting fictional customer reviews. Dealer navigation is Home / Cars / About / Contact; supporting pages also expose buying advice, saved cars and comparison.
 
 The curated page reuses the preserved source DOM, SVGs, photography and layout CSS. Scoped responsive rules fit its combined sections, including a compact two-column search form on phones. Its vehicle shelf, search suggestions and detail links share the real 17-vehicle **sample** catalogue. Homepage and footer logos use `src/data/brand.ts`; journal cards use `src/data/journal.ts`. There are no copied dealer testimonials, invented review totals or inflated stock counts on this composition.
+
+The header search has a visible neutral field and dark text before and during use. Body choices use the original Home 10 side-on photographs for four populated catalogue categories; the compact-car illustration is labelled Hatchback. Home 5's pale rounded benefits container is retained. Scoped hero selectors override the longer vendor selectors so mobile type and spacing actually apply. Curated save buttons handle clicks in capture before Slick's delegated click handler; the carousel remains finite. Sample listing `4690` is labelled Bentley Bentayga — Silver to match its photograph; its existing `mercedes-glc` URL remains for reference-link compatibility.
 
 The ten homepages preserve the original DOM structure, whitespace, section copy, photographs, SVGs, local fonts and layout CSS from the [Boxcar HTML public preview](https://creativelayers.net/themes/boxcar-html/). The captured markup is compiled into Svelte components. Native actions implement menus, tabs and search. A Svelte lifecycle action retains the source's **jQuery and Slick slider core** for faithful carousel behavior. Homepage modules load separately; this is not a complete rewrite of every vendor dependency.
 
